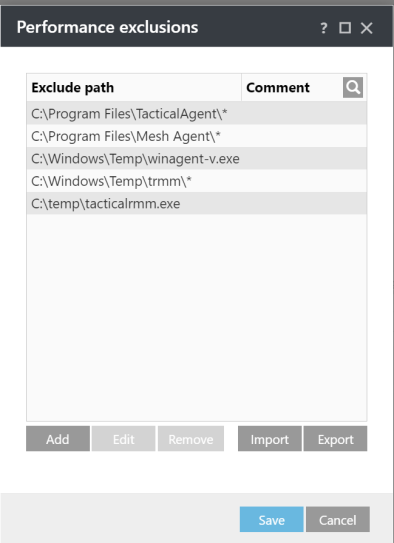
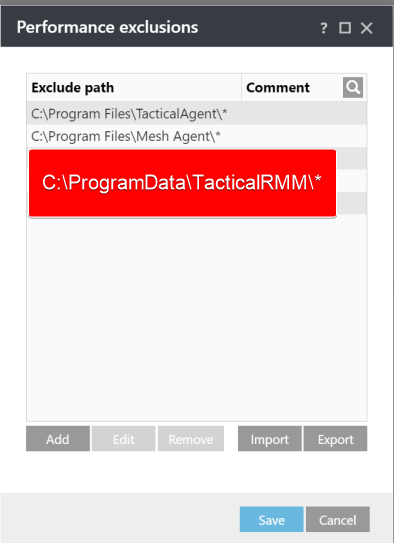
av finishing path updates

Changed region(s): [[0.0609, 0.2652, 0.8528, 0.4125]]

diff --git a/docs/av.md b/docs/av.md
@@ -40,8 +40,6 @@ Admin URL:
 
 ![Web Exclusions](images/avwebroot2.png)
 
-![Web Exclusions](images/avwebroot1.png)
-
 ## Sophos
 
 ### Sophos Central Admin
